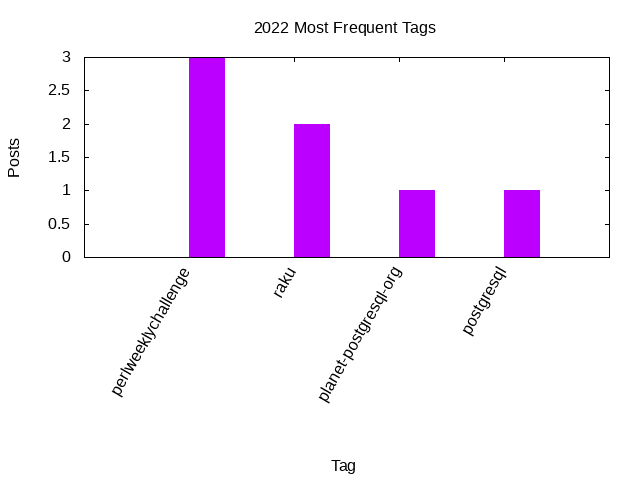
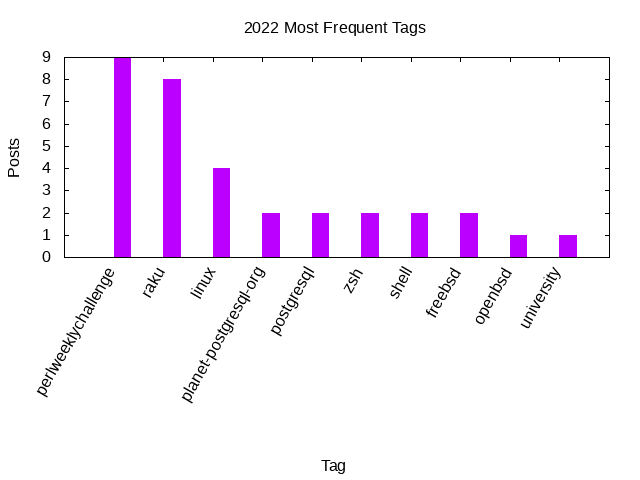
Stats update

diff --git a/_includes/stats/2022.md b/_includes/stats/2022.md
@@ -1,18 +1,18 @@
 <a name="2022" />
 ## 2022 (work in progress)
 
-**15 total posts** have been written on 2022.
+**16 total posts** have been written on 2022.
 There have been *10 different tags* used, the most
 popular being (sorted by number of posts):
  
-- *perlweeklychallenge* (8 posts)  
-- *raku* (7 posts)  
+- *perlweeklychallenge* (9 posts)  
+- *raku* (8 posts)  
 - *linux* (4 posts)  
 - *planet-postgresql-org* (2 posts)  
-- *zsh* (2 posts)  
 - *postgresql* (2 posts)  
-- *freebsd* (2 posts)  
+- *zsh* (2 posts)  
 - *shell* (2 posts)  
+- *freebsd* (2 posts)  
 - *openbsd* (1 posts)  
 - *university* (1 posts).<br/>
 <br/>
@@ -33,7 +33,7 @@ The following is the overall 2022 post ratio by tag (showing max 30 tags):
 
 <div align="right">
 <small>
-Last generated on 2022-02-08 at 14:28
+Last generated on 2022-02-14 at 13:35
 </small>
 </div>
 
